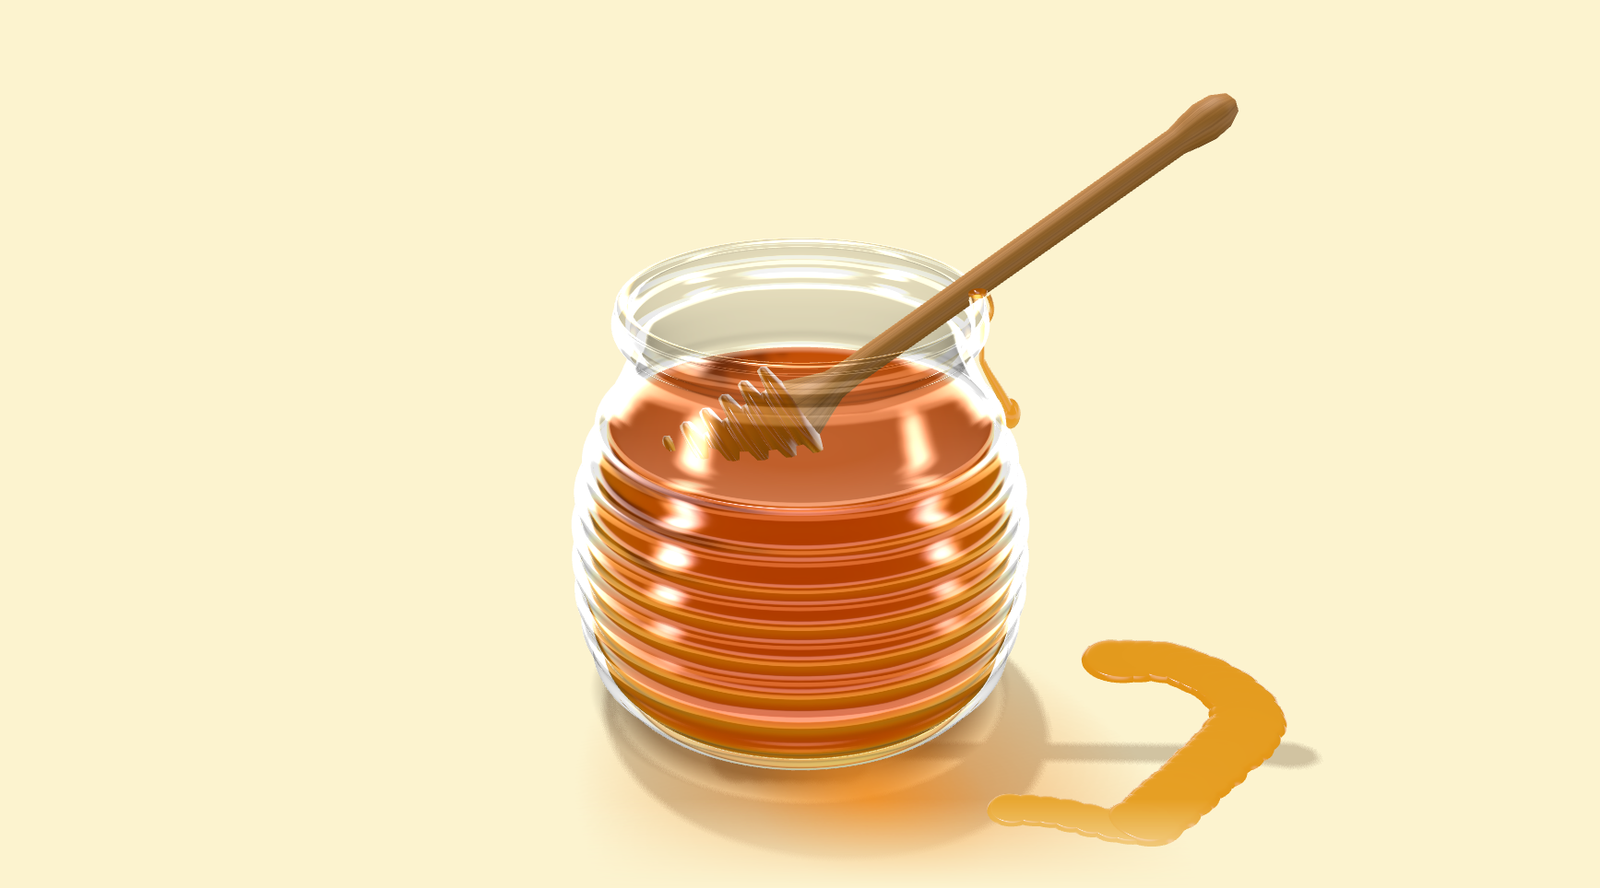
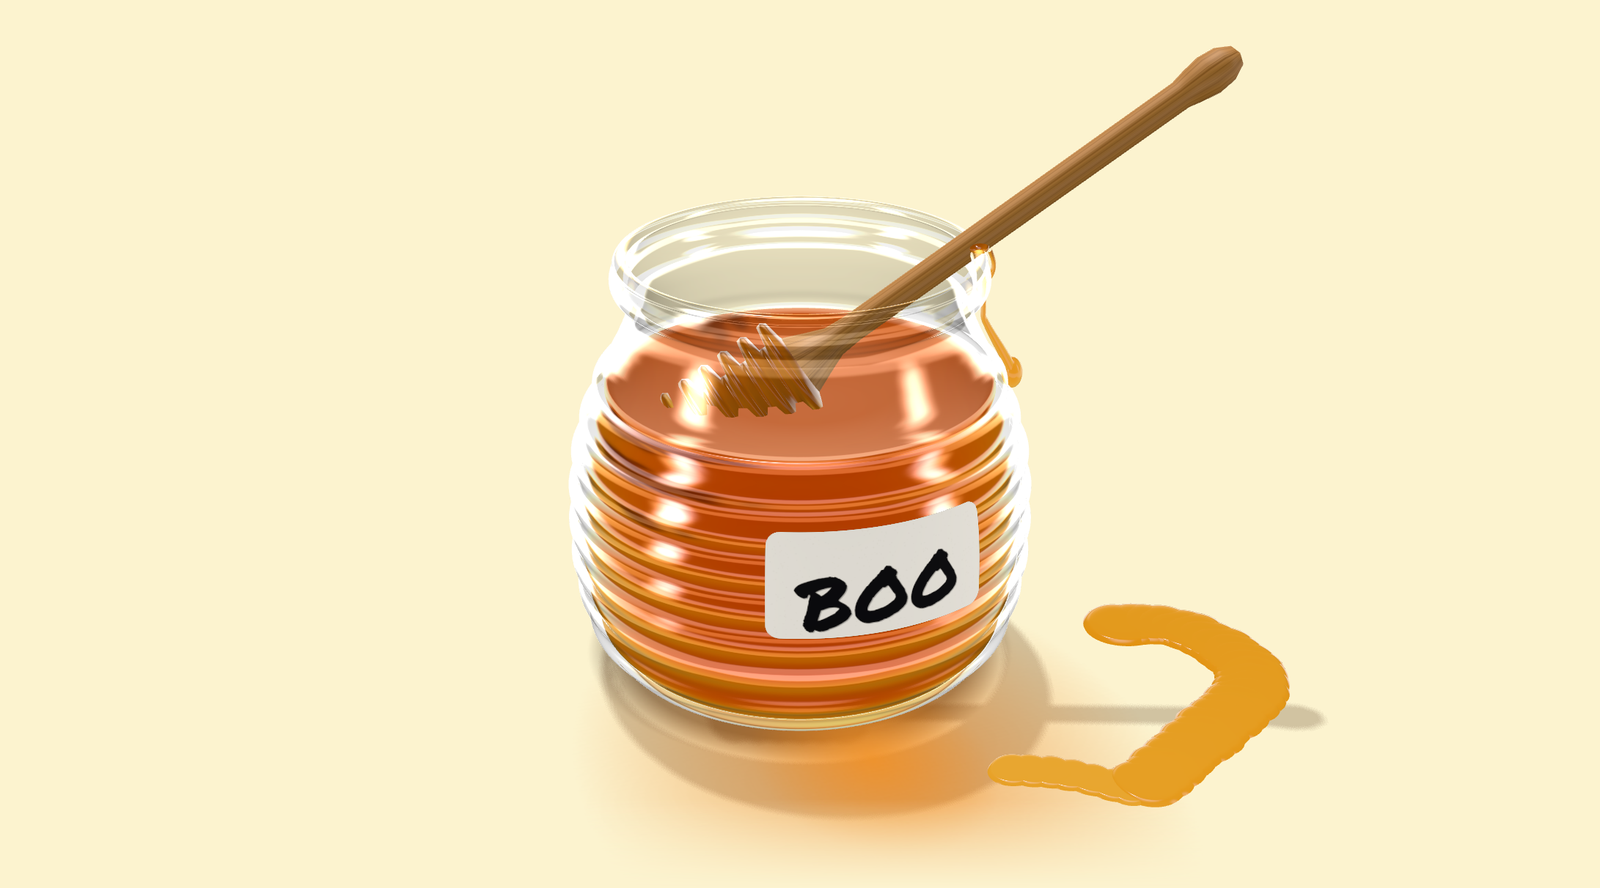
boobounty: "boo" label, centered jar, description only
Marker-written paper label on the jar. The rim drip stays when the dipper
lifts. Jar centered in its frame. Page copy is just the description.

Changed region(s): [[0.3438, 0.0304, 0.8438, 0.973]]

diff --git a/apps/boobounty/src/lib/honeypot/sticker.ts b/apps/boobounty/src/lib/honeypot/sticker.ts
@@ -1,0 +1,98 @@
+import { CanvasTexture, Mesh, MeshStandardMaterial, PlaneGeometry, SRGBColorSpace } from "three";
+
+import { labelRadiusAt } from "./models";
+
+const FONT = "BooMarker";
+const FONT_URL = "/fonts/permanent-marker.woff2";
+const WIDTH = 512;
+const HEIGHT = 256;
+// Front and a little left of center, clear of the drip under the dipper.
+const FACING = Math.PI / 2 + 0.2;
+const SPAN = 0.95;
+const CENTER_Y = 0.86;
+const TALL = 0.48;
+// Off the glass enough not to flicker against it.
+const LIFT = 0.006;
+
+const paint = (canvas: HTMLCanvasElement) => {
+  const context = canvas.getContext("2d");
+  if (!context) {
+    return;
+  }
+  context.clearRect(0, 0, WIDTH, HEIGHT);
+  context.fillStyle = "#fbf7ee";
+  context.beginPath();
+  context.roundRect(6, 6, WIDTH - 12, HEIGHT - 12, 30);
+  context.fill();
+  // Paper tooth: faint flecks keep it from reading as a flat white card.
+  for (let fleck = 0; fleck < 900; fleck += 1) {
+    context.fillStyle = `rgba(120, 100, 70, ${Math.random() * 0.06})`;
+    context.fillRect(Math.random() * WIDTH, Math.random() * HEIGHT, 2, 2);
+  }
+  context.save();
+  context.translate(WIDTH / 2, HEIGHT / 2 + 8);
+  context.rotate(-0.07);
+  context.font = `200px "${FONT}", "Marker Felt", cursive`;
+  context.textAlign = "center";
+  context.textBaseline = "middle";
+  // A marker bleeds a little past its stroke.
+  context.fillStyle = "rgba(20, 20, 22, 0.25)";
+  context.fillText("boo", 2, 2);
+  context.fillStyle = "#151517";
+  context.fillText("boo", 0, 0);
+  context.restore();
+};
+
+/** A paper label stuck to the jar's belly with "boo" on it in marker. */
+export const createSticker = () => {
+  const canvas = document.createElement("canvas");
+  canvas.width = WIDTH;
+  canvas.height = HEIGHT;
+  paint(canvas);
+  const texture = new CanvasTexture(canvas);
+  texture.colorSpace = SRGBColorSpace;
+  texture.anisotropy = 4;
+
+  // A plane wrapped around the jar: across it is around the jar, up it is up the jar.
+  const geometry = new PlaneGeometry(1, 1, 40, 12);
+  const position = geometry.getAttribute("position");
+  for (let index = 0; index < position.count; index += 1) {
+    const angle = FACING - position.getX(index) * SPAN;
+    const y = CENTER_Y + position.getY(index) * TALL;
+    const radius = labelRadiusAt(y) + LIFT;
+    position.setXYZ(index, Math.cos(angle) * radius, y, Math.sin(angle) * radius);
+  }
+  geometry.computeVertexNormals();
+
+  const mesh = new Mesh(
+    geometry,
+    // A touch of its own light: the studio is dim, and paper should still read white.
+    new MeshStandardMaterial({
+      alphaTest: 0.5,
+      emissive: "#ffffff",
+      emissiveIntensity: 0.22,
+      emissiveMap: texture,
+      map: texture,
+      roughness: 0.75,
+      // Transparent objects stay out of the honey's refraction, which would
+      // otherwise mirror the label in the honey's surface.
+      transparent: true,
+    }),
+  );
+  // After the glass: it sits on the outside of it.
+  mesh.renderOrder = 2;
+
+  // The marker face arrives after the scene is built; paint again once it has.
+  const ready = async () => {
+    try {
+      const face = await new FontFace(FONT, `url(${FONT_URL})`).load();
+      document.fonts.add(face);
+      paint(canvas);
+      texture.needsUpdate = true;
+    } catch {
+      // The fallback face already painted is good enough.
+    }
+  };
+
+  return { mesh, ready };
+};

diff --git a/apps/boobounty/src/app/page.tsx b/apps/boobounty/src/app/page.tsx
@@ -3,34 +3,20 @@ import { Honeypot } from "@/components/honeypot";
 import { siteConfig } from "@/lib/site";
 
 const Home = () => (
-  <div className="flex h-svh min-h-[600px] flex-col">
-    <main className="flex min-h-0 flex-1 flex-col">
-      <section className="min-h-0 w-full flex-1">
-        <Honeypot />
-      </section>
+  <main className="flex h-svh min-h-[560px] flex-col">
+    <section className="min-h-0 w-full flex-1">
+      <Honeypot />
+    </section>
 
-      <section className="mx-auto w-full max-w-[880px] px-6 pt-2 pb-6 text-center sm:pb-10">
-        <p className="text-[15px] font-semibold tracking-[-0.01em] text-honey sm:text-[17px]">
-          {siteConfig.name}
-        </p>
-        <h1 className="mt-2 text-[30px] leading-[1.08] font-semibold tracking-[-0.02em] sm:text-[52px] sm:leading-[1.05] sm:[@media(max-height:820px)]:text-[40px]">
-          <span className="block">Your weights are air-gapped.</span>
-          <span className="block">Your engineers aren&rsquo;t.</span>
-        </h1>
-        <p className="mx-auto mt-3 max-w-[560px] text-[15px] leading-[1.45] text-secondary sm:mt-4 sm:text-[19px] sm:[@media(max-height:820px)]:text-[17px]">
-          Honeypot pentesting for AI companies. We send Taiwanese 7s who read r/agi to seduce your
-          employees. If it works, your board finds out before you do.
-        </p>
-        <div className="mt-5 sm:mt-7">
-          <ContactForm />
-        </div>
-      </section>
-    </main>
-
-    <footer className="mx-auto w-full max-w-[720px] border-t border-line px-6 py-3 text-center text-[11px] leading-relaxed text-secondary sm:py-4 sm:text-xs">
-      {siteConfig.name} is satire. No engineers were seduced in the making of this website. © 2026
-    </footer>
-  </div>
+    <section className="mx-auto w-full max-w-[760px] px-6 pt-2 pb-10 text-center sm:pb-14">
+      <h1 className="text-[21px] leading-[1.3] font-semibold tracking-[-0.015em] sm:text-[30px] sm:leading-[1.25] sm:[@media(max-height:820px)]:text-[26px]">
+        {siteConfig.description}
+      </h1>
+      <div className="mt-6 sm:mt-8">
+        <ContactForm />
+      </div>
+    </section>
+  </main>
 );
 
 export default Home;

diff --git a/apps/boobounty/src/lib/honeypot/scene.ts b/apps/boobounty/src/lib/honeypot/scene.ts
@@ -29,9 +29,11 @@ import {
 import { createDipper } from "./dipper";
 import { createHoneyDrops } from "./honey-drops";
 import { JAR_RADIUS, createHoneypot } from "./models";
+import { createSticker } from "./sticker";
 
 const BACKGROUND = "#fcf3cf";
-const TARGET = new Vector3(0, 1.2, 0);
+// The middle of the jar's body, so the jar sits at the center of the frame.
+const TARGET = new Vector3(0, 1, 0);
 const FOV = 28;
 const ELEVATION = 0.44;
 const IDLE_SPIN = 0.12;
@@ -40,7 +42,7 @@ const STALE_RELEASE_MS = 40;
 
 // Framing in world units around TARGET: tight like a product shot, tighter in portrait.
 const framing = (aspect: number) =>
-  aspect < 1 ? { halfHeight: 2.1, halfWidth: 2.2 } : { halfHeight: 1.95, halfWidth: 2.4 };
+  aspect < 1 ? { halfHeight: 1.9, halfWidth: 1.95 } : { halfHeight: 1.95, halfWidth: 2.4 };
 
 // The dipper lifts and drizzles a curve on its own once, to show what it does.
 const DEMO = { duration: 2.2, start: 0.9 };
@@ -253,7 +255,9 @@ export const mountHoneypot = (canvas: HTMLCanvasElement, events: HoneypotEvents)
   world.add(honeypot.group);
   scene.add(world);
   const drops = createHoneyDrops(world);
-  const dipper = createDipper({ dipper: honeypot.dipper, drops, rimDrip: honeypot.rimDrip });
+  const dipper = createDipper({ dipper: honeypot.dipper, drops });
+  const sticker = createSticker();
+  world.add(sticker.mesh);
 
   let dirty = true;
   const resize = () => {
@@ -514,6 +518,7 @@ export const mountHoneypot = (canvas: HTMLCanvasElement, events: HoneypotEvents)
 
   // Compile every shader before the first frame, so the reveal doesn't stutter.
   const reveal = async () => {
+    await sticker.ready();
     await renderer.compileAsync(scene, camera);
     if (disposed) {
       return;

diff --git a/apps/boobounty/src/lib/honeypot/models.ts b/apps/boobounty/src/lib/honeypot/models.ts
@@ -70,6 +70,20 @@ const rib = (y: number) => {
 // The glass thickens toward the lip, as pressed jars do.
 const wall = (y: number) => 0.045 + 0.015 * smoothstep(1.6, 1.8, y);
 
+const bodyProfile = silhouette.getSpacedPoints(220);
+
+/** The radius a flat label rests at around the jar at height y: on the crests of the ribs. */
+export const labelRadiusAt = (y: number) => {
+  const above = bodyProfile.findIndex((point) => point.y >= y);
+  const a = bodyProfile[Math.max(0, above - 1)];
+  const b = bodyProfile[Math.max(0, above)];
+  if (!a || !b) {
+    return JAR_RADIUS + RIB_DEPTH;
+  }
+  const t = (y - a.y) / (b.y - a.y || 1);
+  return a.x + (b.x - a.x) * t + RIB_DEPTH;
+};
+
 const outerProfile = silhouette
   .getSpacedPoints(220)
   .map((point) => new Vector2(point.x + rib(point.y), point.y));
@@ -404,8 +418,7 @@ export const createHoneypot = () => {
     DIPPER_AXIS,
     (LIP_TOP - DIPPER_TIP.y) / DIPPER_AXIS.y,
   );
-  const rimDrip = drip(Math.atan2(rest.z, rest.x), 0.55, honeyMaterial(0.4));
-  group.add(rimDrip);
+  group.add(drip(Math.atan2(rest.z, rest.x), 0.55, honeyMaterial(0.4)));
 
-  return { dipper, grip, group, rimDrip };
+  return { dipper, grip, group };
 };

diff --git a/apps/boobounty/src/app/opengraph-image.tsx b/apps/boobounty/src/app/opengraph-image.tsx
@@ -60,20 +60,9 @@ const OpengraphImage = async () => {
         }}
       >
         <div style={{ color: "#9a5200", fontSize: 30 }}>{siteConfig.name}</div>
-        <div
-          style={{
-            display: "flex",
-            flexDirection: "column",
-            fontSize: 54,
-            letterSpacing: -1.5,
-            lineHeight: 1.06,
-            marginTop: 16,
-          }}
-        >
-          <div>Your weights are air-gapped.</div>
-          <div style={{ marginTop: 12 }}>Your engineers aren’t.</div>
+        <div style={{ fontSize: 36, letterSpacing: -0.8, lineHeight: 1.22, marginTop: 18 }}>
+          {siteConfig.description}
         </div>
-        <div style={{ color: "#6f6450", fontSize: 26, marginTop: 24 }}>{siteConfig.tagline}</div>
       </div>
     </div>,
     {

diff --git a/apps/boobounty/src/lib/honeypot/dipper.ts b/apps/boobounty/src/lib/honeypot/dipper.ts
@@ -44,15 +44,7 @@ const below = (x: number, z: number) => {
  * back through the mouth to rest in the honey and refill. Coordinates are in
  * the jar's frame.
  */
-export const createDipper = ({
-  dipper,
-  rimDrip,
-  drops,
-}: {
-  dipper: Object3D;
-  rimDrip: Object3D;
-  drops: Drops;
-}) => {
+export const createDipper = ({ dipper, drops }: { dipper: Object3D; drops: Drops }) => {
   const tip = DIPPER_TIP.clone();
   const last = tip.clone();
   const goal = new Vector3();
@@ -130,7 +122,6 @@ export const createDipper = ({
     axis.lerp(target, 1 - Math.exp(-TURN_RATE * seconds)).normalize();
     dipper.position.copy(tip);
     dipper.quaternion.setFromUnitVectors(UP, axis);
-    rimDrip.visible = tip.distanceTo(DIPPER_TIP) < 0.03;
 
     stepHoney(seconds);
     return (

diff --git a/apps/boobounty/src/lib/site.ts b/apps/boobounty/src/lib/site.ts
@@ -1,6 +1,6 @@
 export const siteConfig = {
   description:
-    "Honeypot pentesting for AI companies. Taiwanese 7s who read r/agi try to seduce your staff. If it works, your board hears about it.",
+    "Honeypot pentesting for AI companies. We send Taiwanese 7s who read r/agi to seduce your employees. If it works, your board finds out before you do.",
   name: "BooBounty",
   tagline: "Honeypot pentesting for AI companies",
   twitter: "@kaiyuhsu",

diff --git a/CLAUDE.md b/CLAUDE.md
@@ -101,8 +101,9 @@ multiplayer cursors and easter eggs. Rules and module map: `apps/kyh/CLAUDE.md`.
 ### boobounty (`apps/boobounty`)
 
 Meme site at boobounty.com: honeypot pentesting for AI companies. One
-screen, no scroll: a procedural three.js honey jar (no model files) over a
-short description and an email form that only acknowledges. Dragging the
+screen, no scroll: a procedural three.js honey jar (no model files) labeled
+"boo" over the one-paragraph description (`siteConfig.description`) and an
+email form that only acknowledges. Dragging the
 dipper lifts it out and drizzles honey where it is carried; it runs dry and
 refills back in the jar. Dragging anything else turns the jar. Port 3006.
 
@@ -110,6 +111,8 @@ refills back in the jar. Dragging anything else turns the jar. Port 3006.
 - `src/lib/honeypot/scene.ts` - renderer, lights, input, opening drizzle, loop, teardown
 - `src/lib/honeypot/dipper.ts` - carrying the dipper: lift, follow, lean, return, its load
 - `src/lib/honeypot/honey-drops.ts` - the stream, its coil, drizzled puddles
+- `src/lib/honeypot/sticker.ts` - the label, in `public/fonts/permanent-marker.woff2`
+  (Apache 2.0); transparent so the honey's refraction doesn't mirror it
 - Three can't show one transmissive mesh through another, so the honey
   refracts and the glass is a transparent shell with a fresnel shader.
 - `public/honeypot.png` is a capture of the canvas: the no-WebGL fallback and
